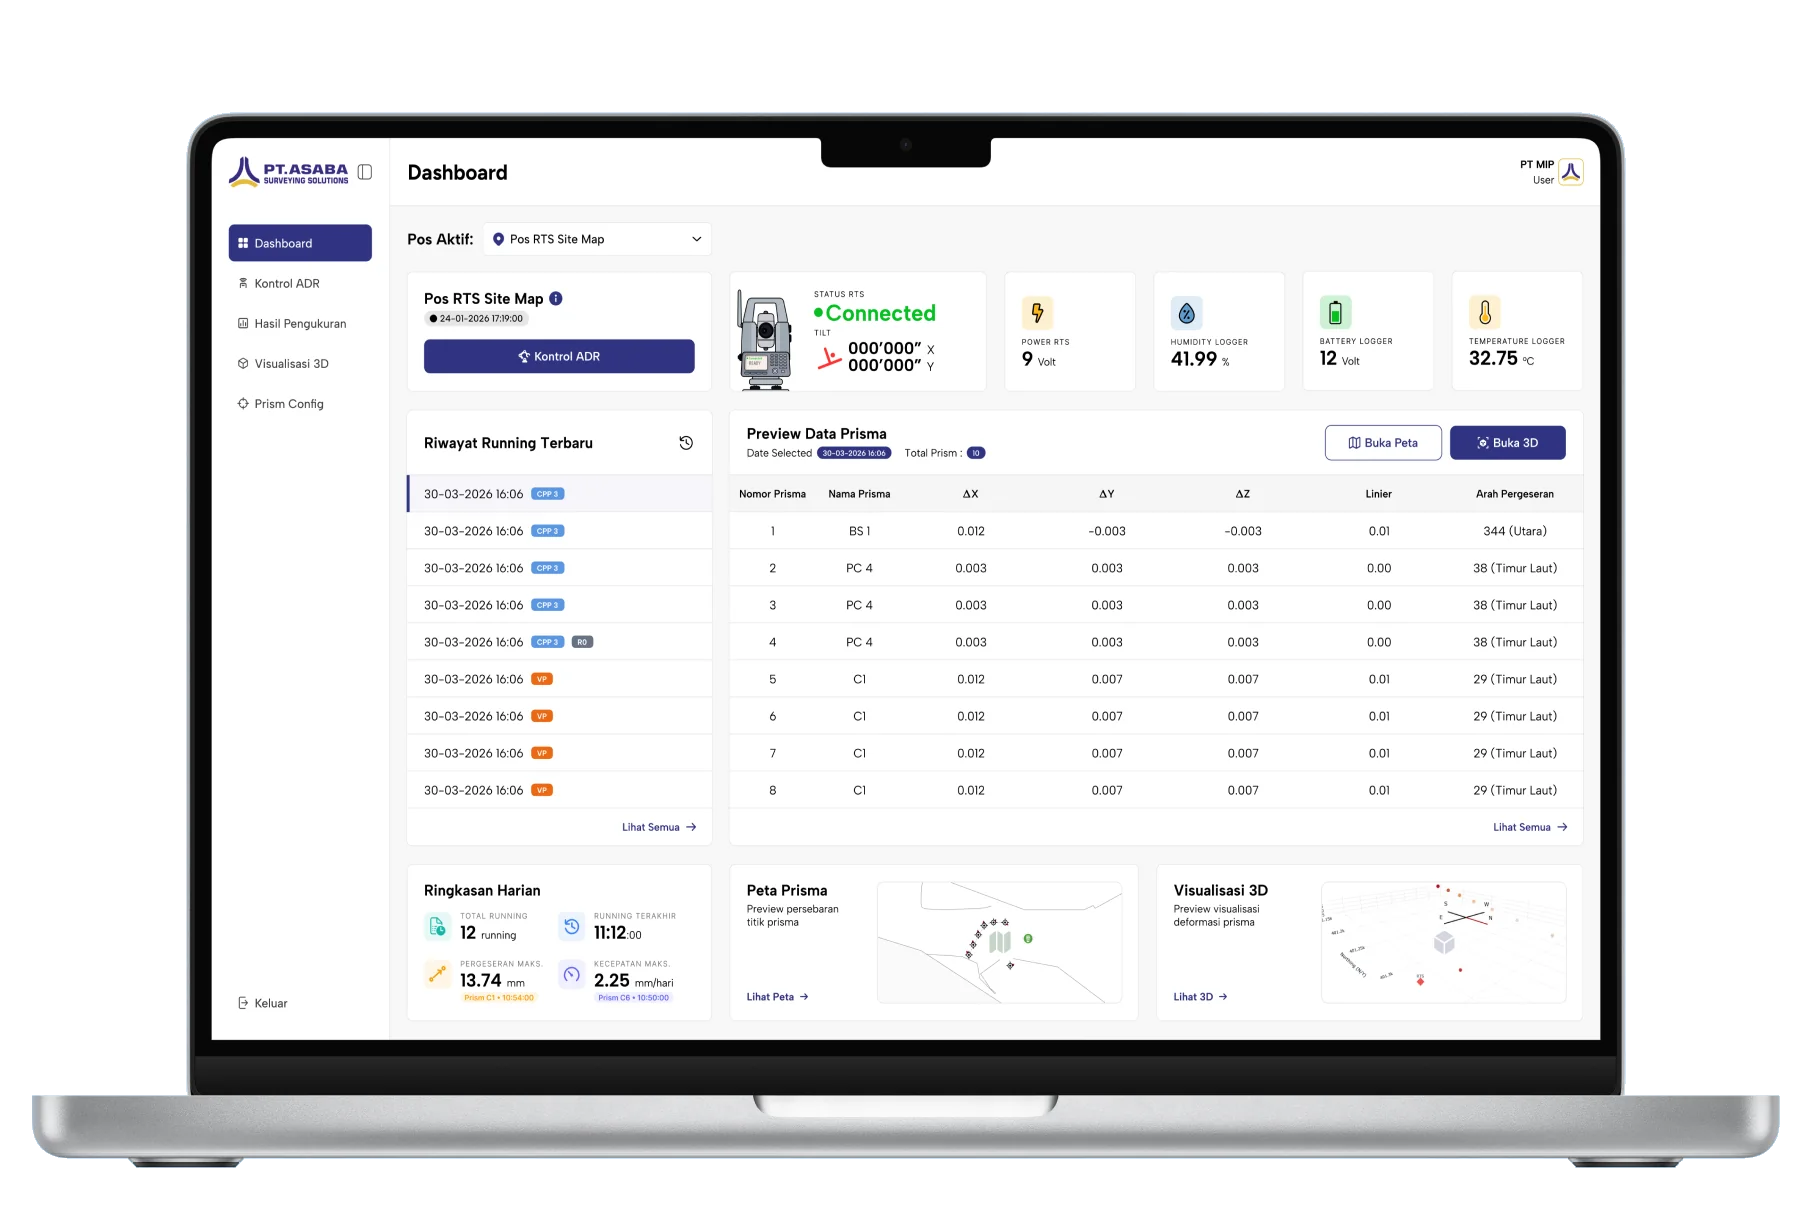
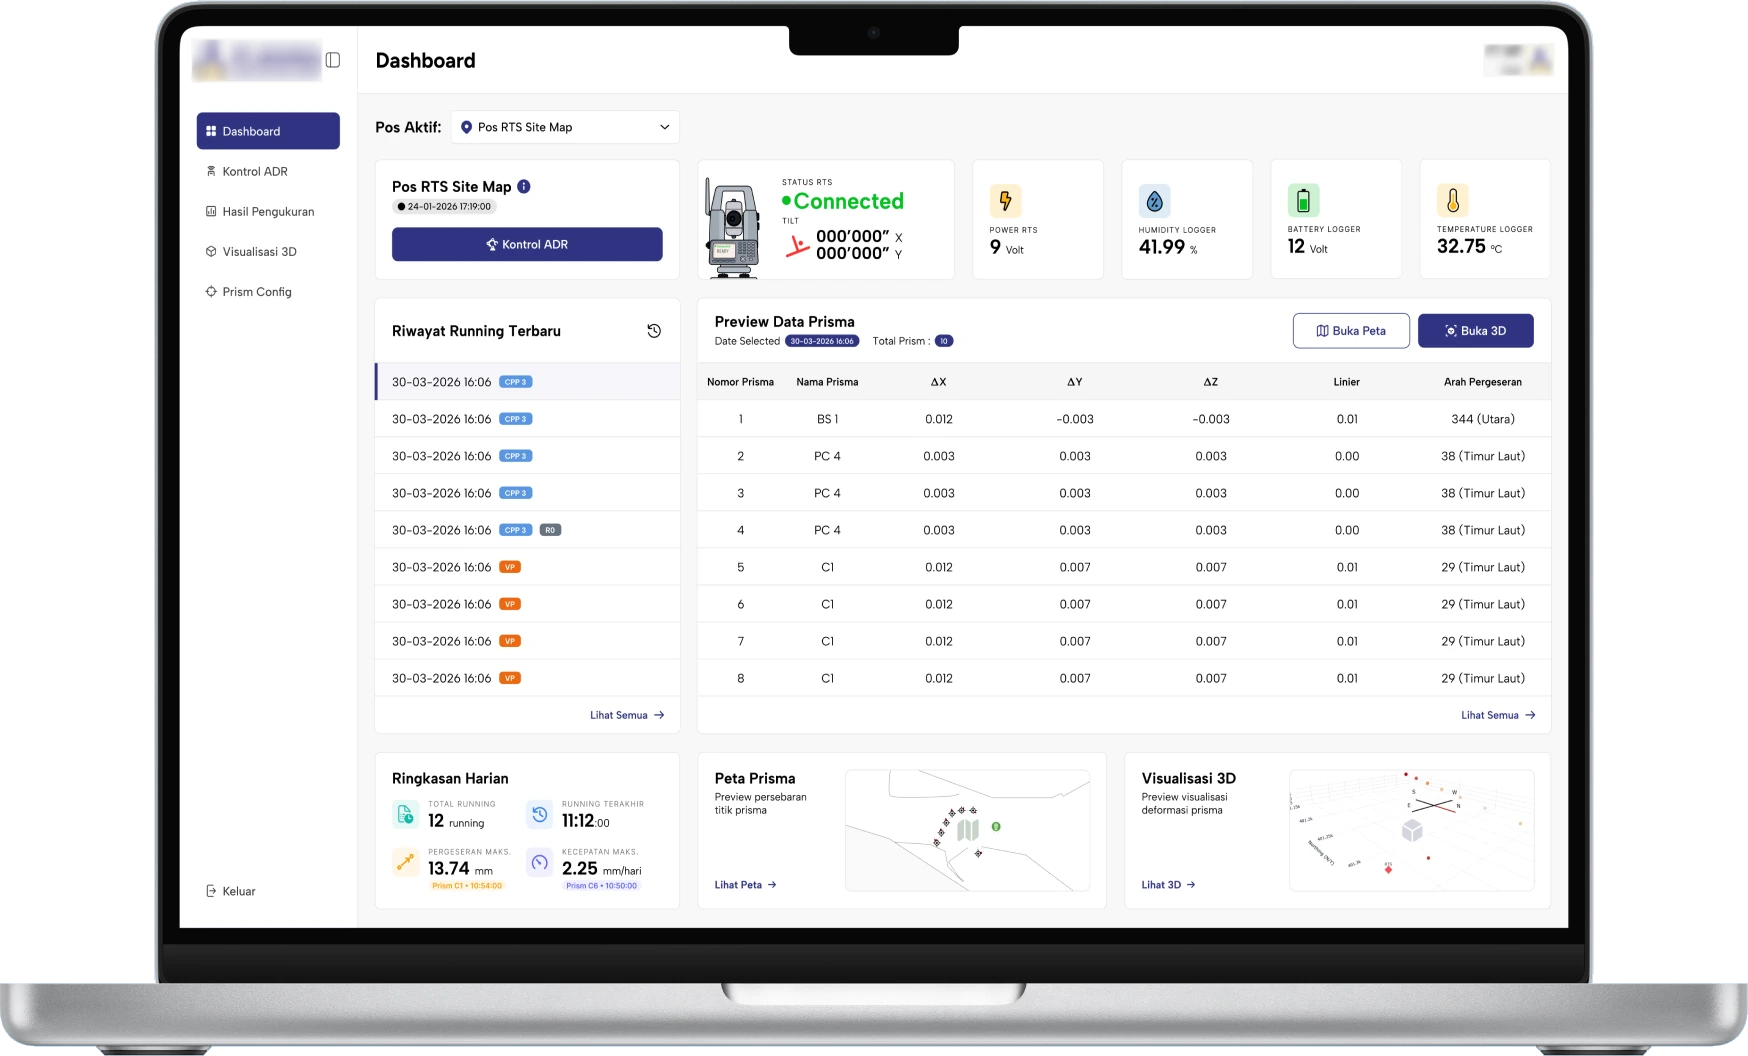
update project showcase images with blurred client branding

diff --git a/config/portfolio.php b/config/portfolio.php
@@ -174,20 +174,20 @@ return [
                 [
                     'label' => 'Screens',
                     'image' => 'assets/projects/telemetry-dashboard/slide-01.webp',
-                    'width' => 1812,
-                    'height' => 1214,
-                    'x' => 7.222,
-                    'y' => 9.946,
-                    'w' => 83.889,
+                    'width' => 1748,
+                    'height' => 1056,
+                    'x' => 8.704,
+                    'y' => 17.575,
+                    'w' => 80.926,
                 ],
                 [
                     'label' => 'Screens',
                     'image' => 'assets/projects/telemetry-dashboard/slide-02.webp',
-                    'width' => 1812,
-                    'height' => 1214,
-                    'x' => 7.222,
-                    'y' => 9.946,
-                    'w' => 83.889,
+                    'width' => 1748,
+                    'height' => 1056,
+                    'x' => 8.704,
+                    'y' => 17.575,
+                    'w' => 80.926,
                 ],
                 [
                     'label' => 'Design System',
@@ -680,11 +680,11 @@ return [
                 [
                     'label' => 'Screens',
                     'image' => 'assets/projects/telemetry-app/slide-01.webp',
-                    'width' => 1704,
-                    'height' => 1180,
-                    'x' => 10.556,
-                    'y' => 9.946,
-                    'w' => 78.911,
+                    'width' => 1503,
+                    'height' => 989,
+                    'x' => 15.185,
+                    'y' => 16.144,
+                    'w' => 69.583,
                 ],
                 [
                     'label' => 'Design System',
@@ -707,11 +707,11 @@ return [
                 [
                     'label' => 'Visual Elements',
                     'image' => 'assets/projects/telemetry-app/slide-04.webp',
-                    'width' => 1812,
-                    'height' => 1214,
-                    'x' => 7.222,
-                    'y' => 9.946,
-                    'w' => 83.889,
+                    'width' => 1680,
+                    'height' => 1072,
+                    'x' => 11.111,
+                    'y' => 16.076,
+                    'w' => 77.778,
                 ],
                 [
                     'label' => 'Visual Elements',
@@ -810,20 +810,20 @@ return [
                 [
                     'label' => 'Screens',
                     'image' => 'assets/projects/iot-dam-monitoring/slide-01.webp',
-                    'width' => 1812,
-                    'height' => 1214,
-                    'x' => 7.222,
-                    'y' => 9.946,
-                    'w' => 83.889,
+                    'width' => 1748,
+                    'height' => 1056,
+                    'x' => 8.704,
+                    'y' => 17.575,
+                    'w' => 80.926,
                 ],
                 [
                     'label' => 'Screens',
                     'image' => 'assets/projects/iot-dam-monitoring/slide-02.webp',
-                    'width' => 1812,
-                    'height' => 1214,
-                    'x' => 7.222,
-                    'y' => 9.946,
-                    'w' => 83.889,
+                    'width' => 1748,
+                    'height' => 1056,
+                    'x' => 8.704,
+                    'y' => 17.575,
+                    'w' => 80.926,
                 ],
                 [
                     'label' => 'Design System',
@@ -846,11 +846,11 @@ return [
                 [
                     'label' => 'Visual Elements',
                     'image' => 'assets/projects/iot-dam-monitoring/slide-05.webp',
-                    'width' => 1812,
-                    'height' => 1214,
-                    'x' => 7.222,
-                    'y' => 9.946,
-                    'w' => 83.889,
+                    'width' => 1680,
+                    'height' => 1072,
+                    'x' => 11.111,
+                    'y' => 16.076,
+                    'w' => 77.778,
                 ],
                 [
                     'label' => 'Visual Elements',
@@ -1258,20 +1258,20 @@ return [
                 [
                     'label' => 'Screens',
                     'image' => 'assets/projects/deformation-dashboard/slide-01.webp',
-                    'width' => 1812,
-                    'height' => 1214,
-                    'x' => 7.222,
-                    'y' => 9.946,
-                    'w' => 83.889,
+                    'width' => 1748,
+                    'height' => 1056,
+                    'x' => 8.704,
+                    'y' => 17.575,
+                    'w' => 80.926,
                 ],
                 [
                     'label' => 'Screens',
                     'image' => 'assets/projects/deformation-dashboard/slide-02.webp',
-                    'width' => 1812,
-                    'height' => 1214,
-                    'x' => 7.222,
-                    'y' => 9.946,
-                    'w' => 83.889,
+                    'width' => 1748,
+                    'height' => 1056,
+                    'x' => 8.704,
+                    'y' => 17.575,
+                    'w' => 80.926,
                 ],
                 [
                     'label' => 'Design System',
@@ -1294,11 +1294,11 @@ return [
                 [
                     'label' => 'Visual Elements',
                     'image' => 'assets/projects/deformation-dashboard/slide-05.webp',
-                    'width' => 1812,
-                    'height' => 1214,
-                    'x' => 7.222,
-                    'y' => 9.946,
-                    'w' => 83.889,
+                    'width' => 1680,
+                    'height' => 1072,
+                    'x' => 11.111,
+                    'y' => 16.076,
+                    'w' => 77.778,
                 ],
             ],
             'designCards' => [
